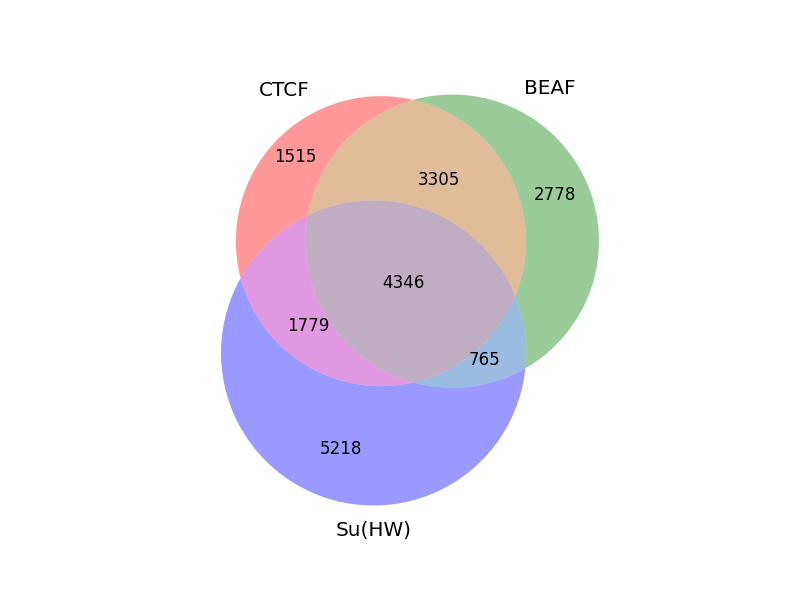
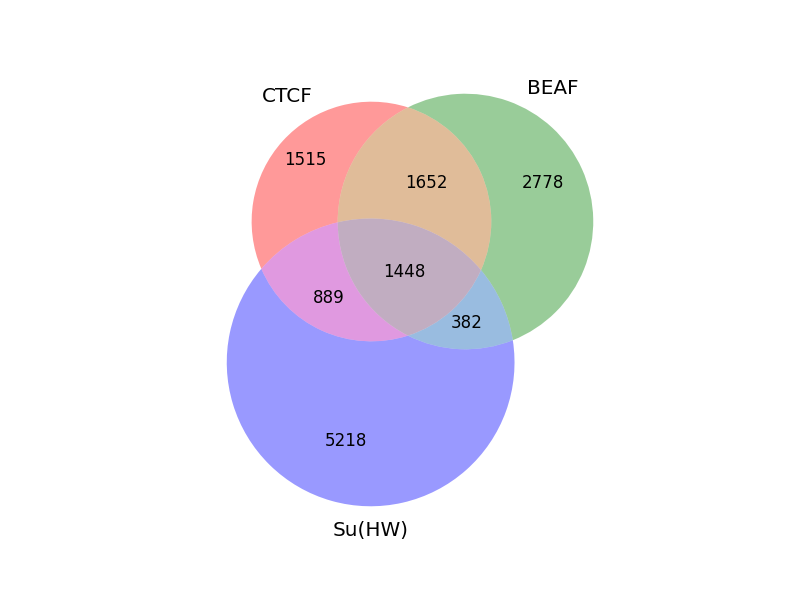
corrected diagram

diff --git a/day4/lunch/lunch1.py b/day4/lunch/lunch1.py
@@ -123,7 +123,7 @@ print BC
 print ABC
 
 plt.figure()
-v = venn3( subsets = (A, B, AB, C, AC, BC, ABC), set_labels = ("CTCF", "BEAF", "Su(HW)"))   
+v = venn3( subsets = (A, B, int(AB/2) , C, int(AC/2) , int(BC/2) , int(ABC/3) ), set_labels = ("CTCF", "BEAF", "Su(HW)"))   
 plt.savefig("CTCF_BEAF_SuHWvenn.png")  
 
 
